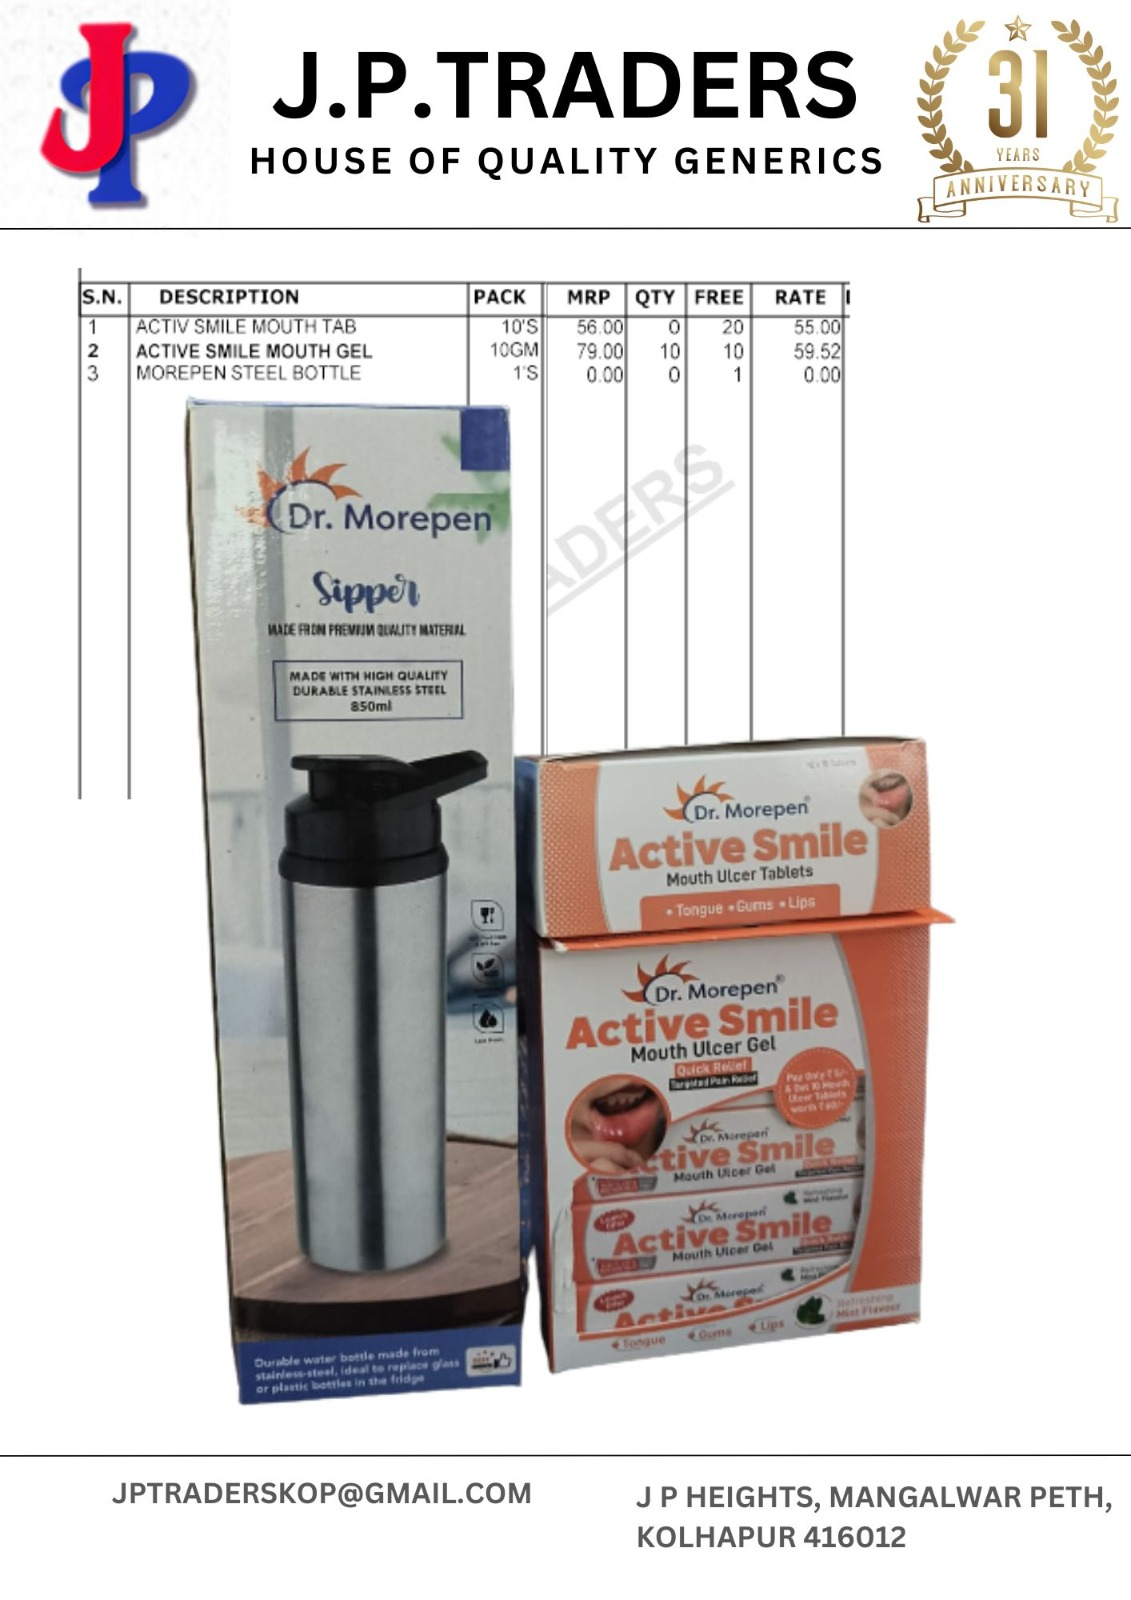
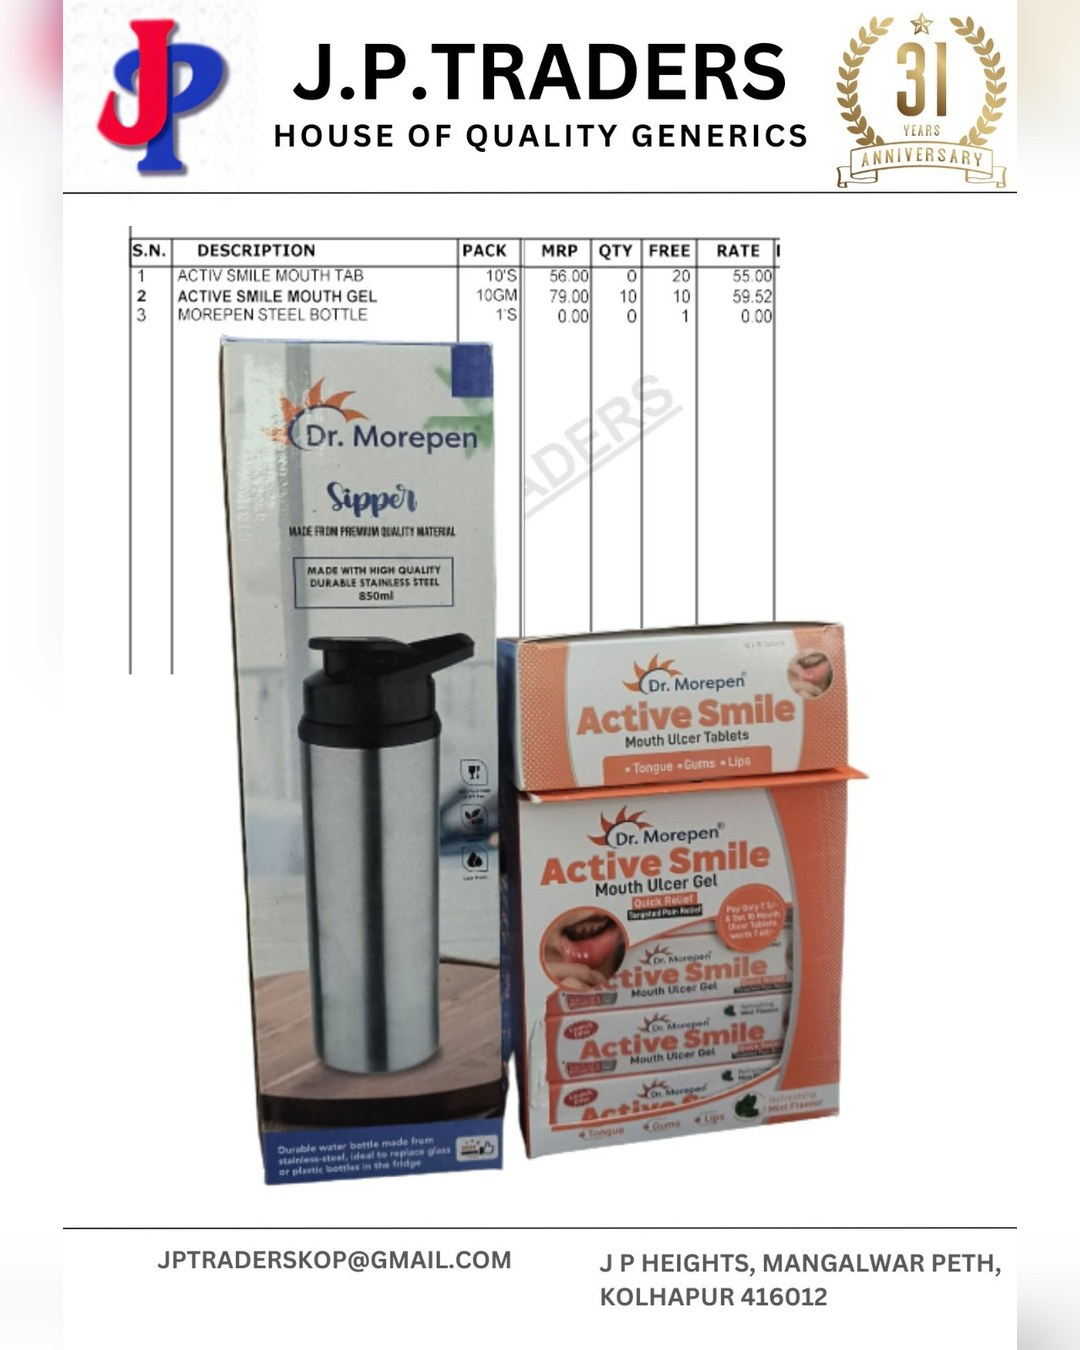
Stop the Mankind full-screen popup; store and show all offer images at one 4:5 size
New offer uploads are normalised to 1080x1350 (flyer kept whole, blurred fill), and the offers list and carousel render every image in the same box.

Changed region(s): [[0.0, 0.0, 0.8556, 0.9644], [0.2139, 0.0, 1.0, 0.1556], [0.55, 0.9022, 1.0, 1.0]]

diff --git a/src/actions/bannerActions.ts b/src/actions/bannerActions.ts
@@ -4,6 +4,7 @@ import { revalidatePath } from "next/cache";
 import { getOrgScopedDb } from "@/lib/orgScopedDb";
 import { assertRole } from "@/lib/permissions";
 import { uploadPhoto } from "@/lib/blob";
+import { normalizeOfferImage } from "@/lib/offerImage";
 import { sendPushToOrg, isWebPushConfigured } from "@/lib/webPush";
 import { Prisma, type BannerPlacement } from "@/generated/prisma/client";
 import { parseBundleItems, MAX_BUNDLE_ITEMS, type BundleItem } from "@/lib/bannerBundle";
@@ -148,7 +149,16 @@ export async function createBanner(
   if (!remark.ok) return { ok: false, error: remark.error };
 
   const buffer = Buffer.from(await image.arrayBuffer());
-  const imageUrl = await uploadPhoto(`banner-${Date.now()}-${image.name}`, buffer, image.type);
+  let upload: { data: Buffer; name: string; type: string } = { data: buffer, name: image.name, type: image.type };
+  if (placement === "OFFER") {
+    // Offer flyers are all stored at one size so the offers list looks uniform.
+    try {
+      upload = { data: await normalizeOfferImage(buffer), name: `${image.name.replace(/\.[^.]+$/, "")}.jpg`, type: "image/jpeg" };
+    } catch {
+      // Not an image sharp can read: keep the file as uploaded.
+    }
+  }
+  const imageUrl = await uploadPhoto(`banner-${Date.now()}-${upload.name}`, upload.data, upload.type);
 
   await db.shopBanner.create({
     data: {

diff --git a/src/lib/offerImage.ts b/src/lib/offerImage.ts
@@ -1,0 +1,24 @@
+import sharp from "sharp";
+
+// Every offer flyer is stored at the same 4:5 size so the offers list and the
+// home carousel look uniform whatever shape the supplier's artwork came in.
+// The whole flyer is kept (never cropped); leftover space is filled with a
+// blurred copy of the flyer itself.
+export const OFFER_IMAGE_WIDTH = 1080;
+export const OFFER_IMAGE_HEIGHT = 1350;
+
+export async function normalizeOfferImage(input: Buffer): Promise<Buffer> {
+  const background = await sharp(input)
+    .rotate()
+    .resize(OFFER_IMAGE_WIDTH, OFFER_IMAGE_HEIGHT, { fit: "cover" })
+    .blur(28)
+    .toBuffer();
+  const flyer = await sharp(input)
+    .rotate()
+    .resize(OFFER_IMAGE_WIDTH, OFFER_IMAGE_HEIGHT, { fit: "inside" })
+    .toBuffer();
+  return sharp(background)
+    .composite([{ input: flyer, gravity: "centre" }])
+    .jpeg({ quality: 88 })
+    .toBuffer();
+}

diff --git a/src/app/shop/(authenticated)/offers/page.tsx b/src/app/shop/(authenticated)/offers/page.tsx
@@ -40,13 +40,13 @@ export default async function ShopOffersPage() {
               <Image
                 src={o.imageUrl}
                 alt={o.title ?? "Offer"}
-                width={0}
-                height={0}
+                width={1080}
+                height={1350}
                 sizes="100vw"
                 // Distributor flyers are usually a tall, full-page poster, not a wide
                 // banner strip — scale to the image's own aspect ratio instead of
                 // cropping to a fixed box, so none of the offer's fine print gets cut off.
-                style={{ width: "100%", height: "auto" }}
+                className="aspect-[4/5] w-full object-contain"
                 unoptimized
               />
               {countdown && (

diff --git a/src/app/shop/(authenticated)/layout.tsx b/src/app/shop/(authenticated)/layout.tsx
@@ -8,7 +8,6 @@ import { CartProvider } from "@/components/shop/CartProvider";
 import { PendingOrdersSync } from "@/components/shop/PendingOrdersSync";
 import { OfflineBanner } from "@/components/shop/OfflineBanner";
 import { OfflineCatalogSync } from "@/components/shop/OfflineCatalogSync";
-import { OfferPopup } from "@/components/shop/OfferPopup";
 import { StaffBookingBanner } from "@/components/shop/StaffBookingBanner";
 import { t } from "@/lib/i18n";
 
@@ -47,7 +46,6 @@ export default async function ShopAuthenticatedLayout({ children }: { children: 
           </p>
         </main>
         <ShopBottomNav lang={lang} />
-        <OfferPopup lang={lang} />
       </div>
     </CartProvider>
   );

diff --git a/src/components/shop/BannerCarousel.tsx b/src/components/shop/BannerCarousel.tsx
@@ -80,11 +80,10 @@ export function BannerCarousel({
                 <Image
                   src={b.imageUrl}
                   alt={b.title ?? "Banner"}
-                  width={0}
-                  height={0}
+                  width={1080}
+                  height={1350}
                   sizes="85vw"
-                  style={{ width: "100%", height: "auto" }}
-                  className="shrink-0 snap-center rounded-2xl border border-slate-100 bg-white"
+                  className="aspect-[4/5] w-full shrink-0 snap-center rounded-2xl border border-slate-100 bg-white object-contain"
                   unoptimized
                 />
               )}
